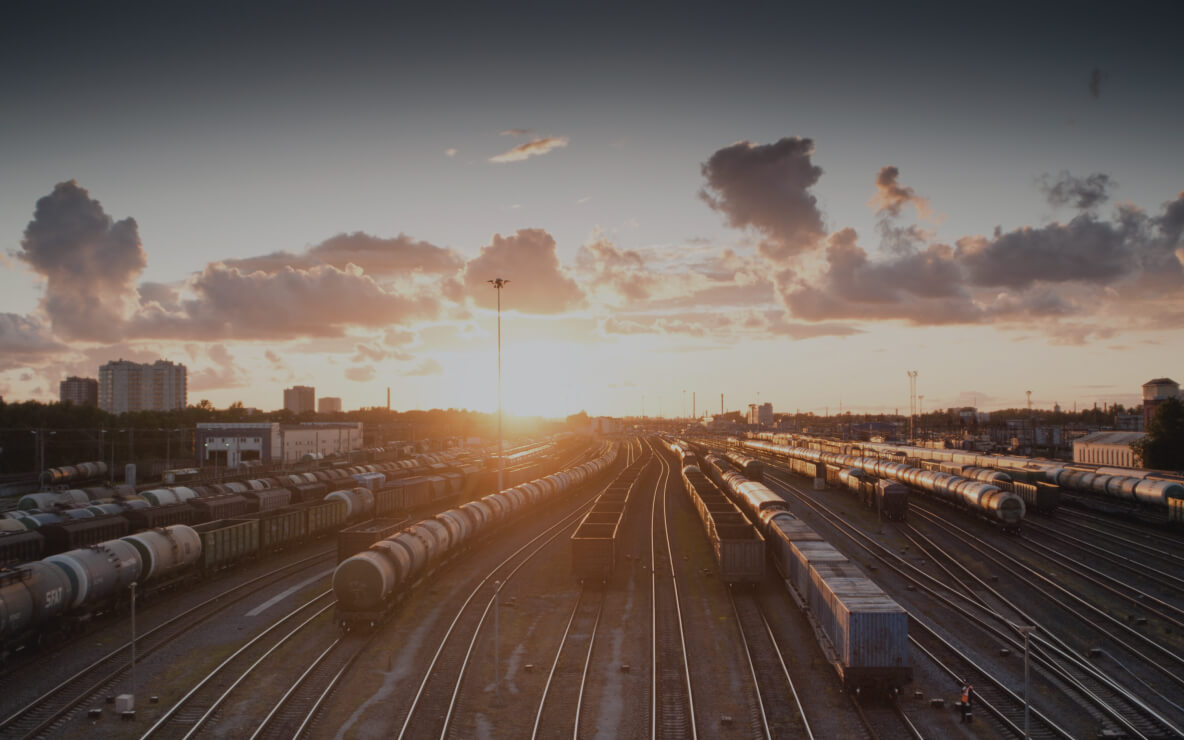
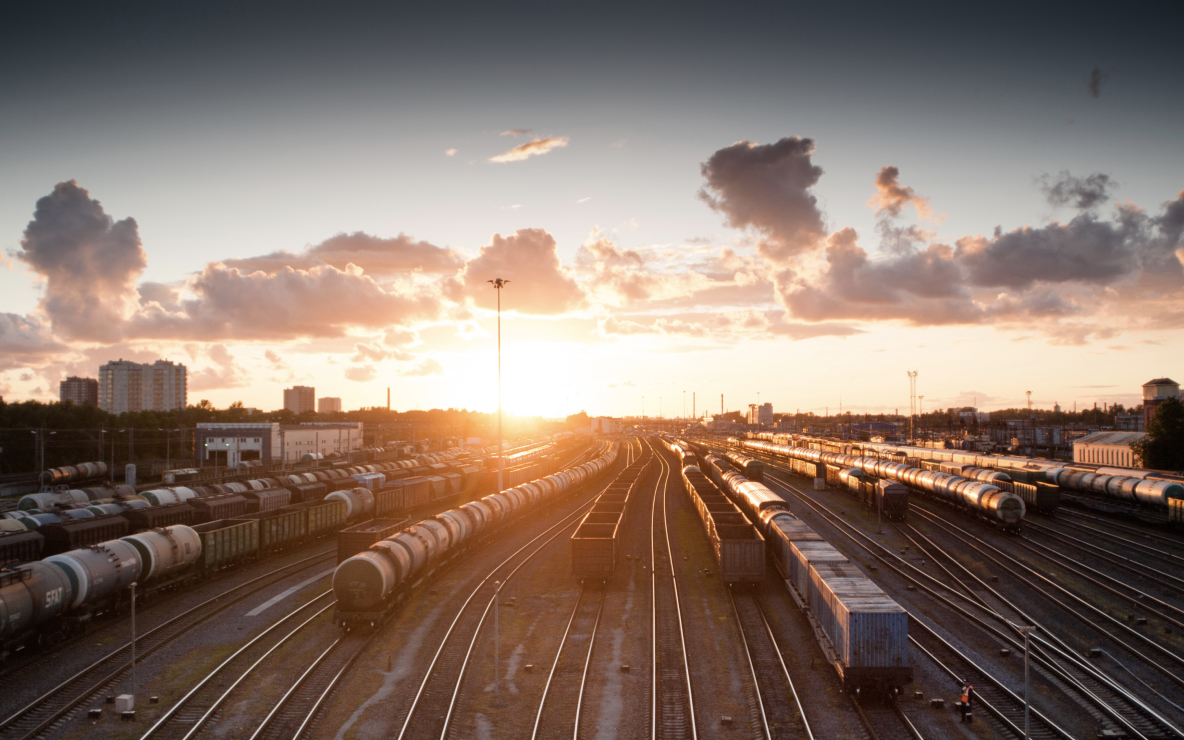
second review

diff --git a/index.html b/index.html
@@ -50,7 +50,7 @@
     <section class="places">
       <div class="place">
         <div class="place__top-row">
-          <h2 class="place__header">Куршская коса</h2>
+          <h2 class="place__title">Куршская коса</h2>
           <div class="website">
             <p class="website__url-heading">URL</p>
             <a class="website__link" href="http://park-kosa.ru">park-kosa.ru</a>
@@ -66,7 +66,7 @@
       </div>
       <div class="place">
         <div class="place__top-row">
-          <h2 class="place__header">Кольский</h2>
+          <h2 class="place__title">Кольский</h2>
           <div class="website">
             <p class="website__url-heading">URL</p>
             <a class="website__link" href="https://yourshot.nationalgeographic.com/photos/?keywords=kolskiy">National Geographic</a>
@@ -83,7 +83,7 @@
       </div>
       <div class="place">
         <div class="place__top-row">
-          <h2 class="place__header">Алтай</h2>
+          <h2 class="place__title">Алтай</h2>
           <div class="website">
             <p class="website__url-heading">URL</p>
             <a class="website__link" href="https://www.facebook.com/vera.bashmakova/posts/10156011613718822">Facebook</a>
@@ -100,7 +100,7 @@
       </div>
       <div class="place">
         <div class="place__top-row">
-          <h2 class="place__header">Зимний Байкал</h2>
+          <h2 class="place__title">Зимний Байкал</h2>
           <div class="website">
             <p class="website__url-heading">URL</p>
             <a class="website__link" href="https://vk.com/baikalmile">https://vk.com/baikalmile</a>
@@ -116,7 +116,7 @@
       </div>
       <div class="place">
         <div class="place__top-row">
-          <h2 class="place__header">Карелия</h2>
+          <h2 class="place__title">Карелия</h2>
           <div class="website">
             <p class="website__url-heading">URL</p>
             <a class="website__link" href="http://vodlozero.ru">http://vodlozero.ru/</a>
@@ -129,7 +129,7 @@
       </div>
     </section>
     <section class="cover">
-        <a href="https://stampsy.com/na-elektrichkakh-do-baikala"><img class="cover__bg" src="./images/cover__bg.jpg" alt="поезда"></a>
+        <a class="cover__link" href="https://stampsy.com/na-elektrichkakh-do-baikala"><img class="cover__bg" src="./images/cover__bg.jpg" alt="поезда"></a>
         <h2 class="cover__title">До Байкала «на собаках»</h2>
         <p class="cover__subtitle">По мотивам учебной темы о Транссибе — путешествие от столицы до Байкала на электричках.</p>
     </section>

diff --git a/pages/index.css b/pages/index.css
@@ -20,8 +20,8 @@
 @import url(../blocks/intro/__text/intro__text.css);
 @import url(../blocks/intro/__list/intro__list.css);
 
-@import url(../blocks/photo_grid/photo-grid.css);
-@import url(../blocks/photo_grid/__item/photo-grid__item.css);
+@import url(../blocks/photo-grid/photo-grid.css);
+@import url(../blocks/photo-grid/__item/photo-grid__item.css);
 
 @import url(../blocks/places/places.css);
 @import url(../blocks/place/place.css);
@@ -39,14 +39,9 @@
 @import url(../blocks/cover/__title/cover__title.css);
 @import url(../blocks/cover/__subtitle/cover__subtitle.css);
 @import url(../blocks/cover/__bg/cover__bg.css);
+@import url(../blocks/cover/__link/cover__link.css);
 
 @import url(../blocks/footer/footer.css);
 @import url(../blocks/footer/__links-copyright/footer__links-copyright.css);
 @import url(../blocks/footer/__link/footer__link.css);
-@import url(../blocks/footer/__author/footer_author.css);
-
-
-
-
-
-
+@import url(../blocks/footer/__author/footer__author.css);

diff --git a/blocks/place/__text/place__text.css b/blocks/place/__text/place__text.css
@@ -6,7 +6,7 @@
     font-style: normal;
     font-weight: 400;
     font-size: 18px;
-    line-height: 163%;
+    line-height: 160%;
     color: #FFFFFF;
     
 }
@@ -18,6 +18,7 @@
 @media screen and (max-width: 1024px) {
     .place__text {
         width: 456px;
+        line-height: 161%;
     }
 }
 
@@ -25,14 +26,17 @@
     .place__text {
         font-size: 16px;
         width: 352px;
+        line-height: 162%;
     }
 }
 
 @media screen and (max-width: 320px) {
     .place__text {
         margin-top: 32px;
+        margin-right: 4px;
         font-size: 16px;
-        width: 288px;
+        width: 283px;
+        line-height: 160%;
     }
 
     .place__text:nth-of-type(2) {

diff --git a/blocks/place/__title/place__title.css b/blocks/place/__title/place__title.css
@@ -1,4 +1,4 @@
-.place__header {
+.place__title {
     margin: 0;
     margin-right: 40px;
     font-family: 'Inter', 'Arial', 'Helvetica';
@@ -11,14 +11,14 @@
 }
 
 @media screen and (max-width: 1024px) {
-    .place__header {
+    .place__title {
         width: 440px;
         margin-right: 32px;
     }
 }
 
 @media screen and (max-width: 768px) {
-    .place__header {
+    .place__title {
         font-size: 42px;
         line-height: 46px;
         width: 330px;
@@ -27,7 +27,7 @@
 }
 
 @media screen and (max-width: 320px) {
-    .place__header {
+    .place__title {
         margin: 0 auto;
         font-size: 32px;
         line-height: 35px;

diff --git a/blocks/cover/__bg/cover__bg.css b/blocks/cover/__bg/cover__bg.css
@@ -1,16 +1,17 @@
 .cover__bg {
+    position: relative;
     display: block;
     margin: 0 auto;
+}
+
+.cover:hover .cover__bg {
+    opacity: 0.8;
 }
 
 @media screen and (max-width: 1024px) {
     .cover__bg {
         width: 1024px;
         height: 640px;
-    }
-
-    .cover__bg:hover {
-        opacity: 0.8;
     }
 }
 
@@ -19,19 +20,11 @@
         width: 768px;
         height: 480px;
     }
-
-    .cover__bg:hover {
-        opacity: 0.8;
-    }
 }
 
 @media screen and (max-width: 320px) {
     .cover__bg {
         width: 320px;
         height: 200px;
-    }
-
-    .cover__bg:hover {
-        opacity: 0.8;
     }
 }

diff --git a/blocks/cover/__link/cover__link.css b/blocks/cover/__link/cover__link.css
@@ -1,0 +1,13 @@
+.cover__link {
+    position: relative;
+}
+
+.cover__link::before {
+    content: ""; 
+    position: absolute;
+    background-color: #2A2C2F;
+    opacity: 0.3;
+    width: 100%;
+    height: 100%;
+    z-index: 1;
+}

diff --git a/blocks/place/__image/place__image.css b/blocks/place/__image/place__image.css
@@ -21,6 +21,7 @@
 
 @media screen and (max-width: 320px) {
     .place__image {
+        margin-top: 32px;
         margin-right: 0;
         width: 320px;
         height: 320px;

diff --git a/blocks/cover/cover.css b/blocks/cover/cover.css
@@ -4,10 +4,6 @@
     max-height: 740px;
 }
 
-.cover:hover .cover__bg {
-    opacity: 0.8;
-}
-
 @media screen and (max-width: 1024px) {
     .cover {
         width: 1024px;

diff --git a/blocks/places/places.css b/blocks/places/places.css
@@ -19,6 +19,6 @@
 @media screen and (max-width: 320px) {
     .places {
         width: 320px;
-        padding-bottom: 66px;
+        padding-bottom: 48px;
     }
 }

diff --git a/blocks/page/page.css b/blocks/page/page.css
@@ -1,5 +1,6 @@
 .page {
     display: flex;
+    margin: 0 auto;
     flex-direction: column;
     align-items:center;
     width: 1280px;

diff --git a/blocks/cover/__subtitle/cover__subtitle.css b/blocks/cover/__subtitle/cover__subtitle.css
@@ -11,6 +11,7 @@
     bottom: 245px;
     left: 412px;
     right: 412px;
+    z-index: 2;
 }
 
 @media screen and (max-width: 1024px) {

diff --git a/blocks/cover/__title/cover__title.css b/blocks/cover/__title/cover__title.css
@@ -11,6 +11,7 @@
     bottom: 343px;
     left: 312px;
     right: 312px;
+    z-index: 2;
 }
 
 
